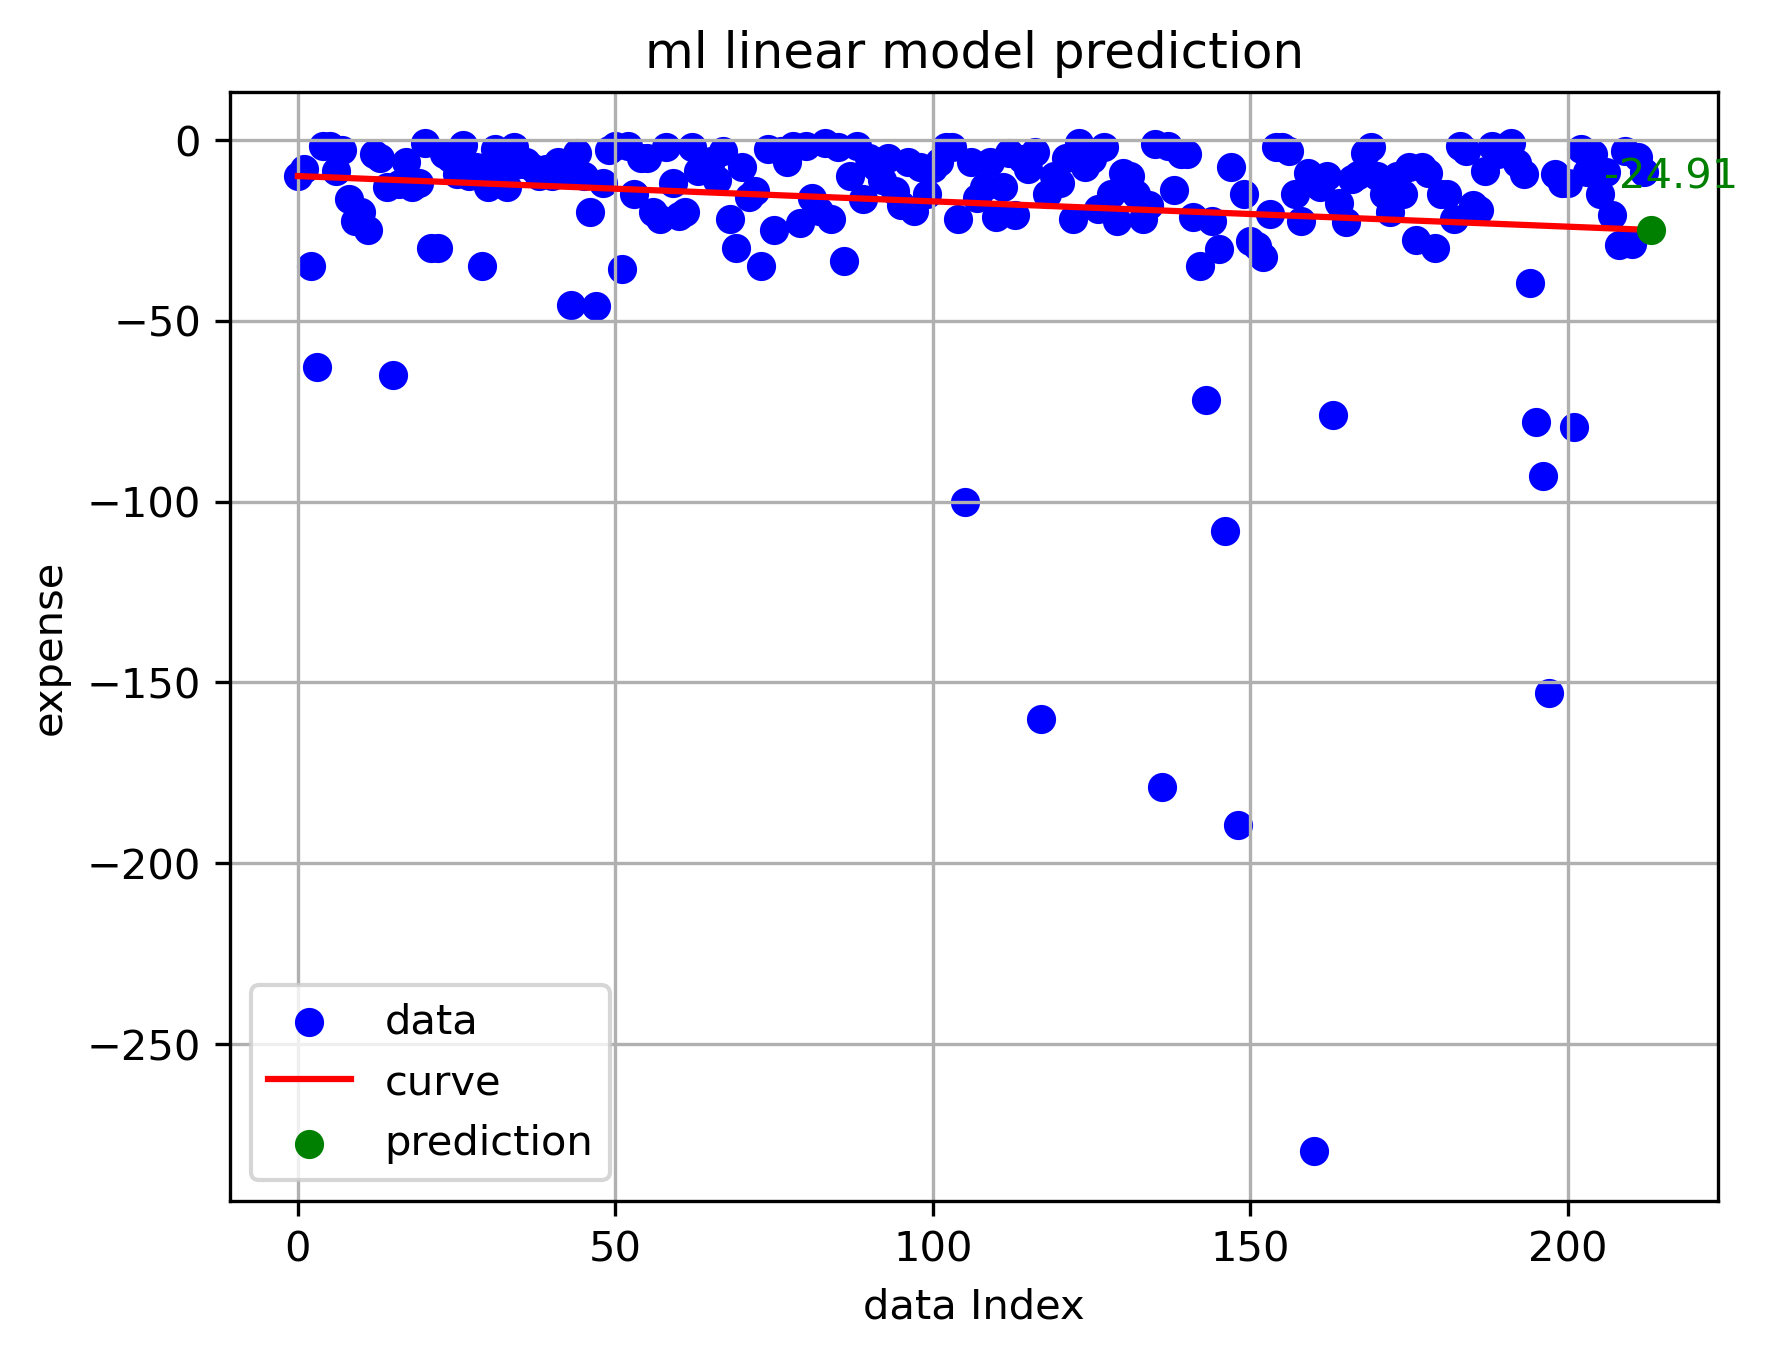
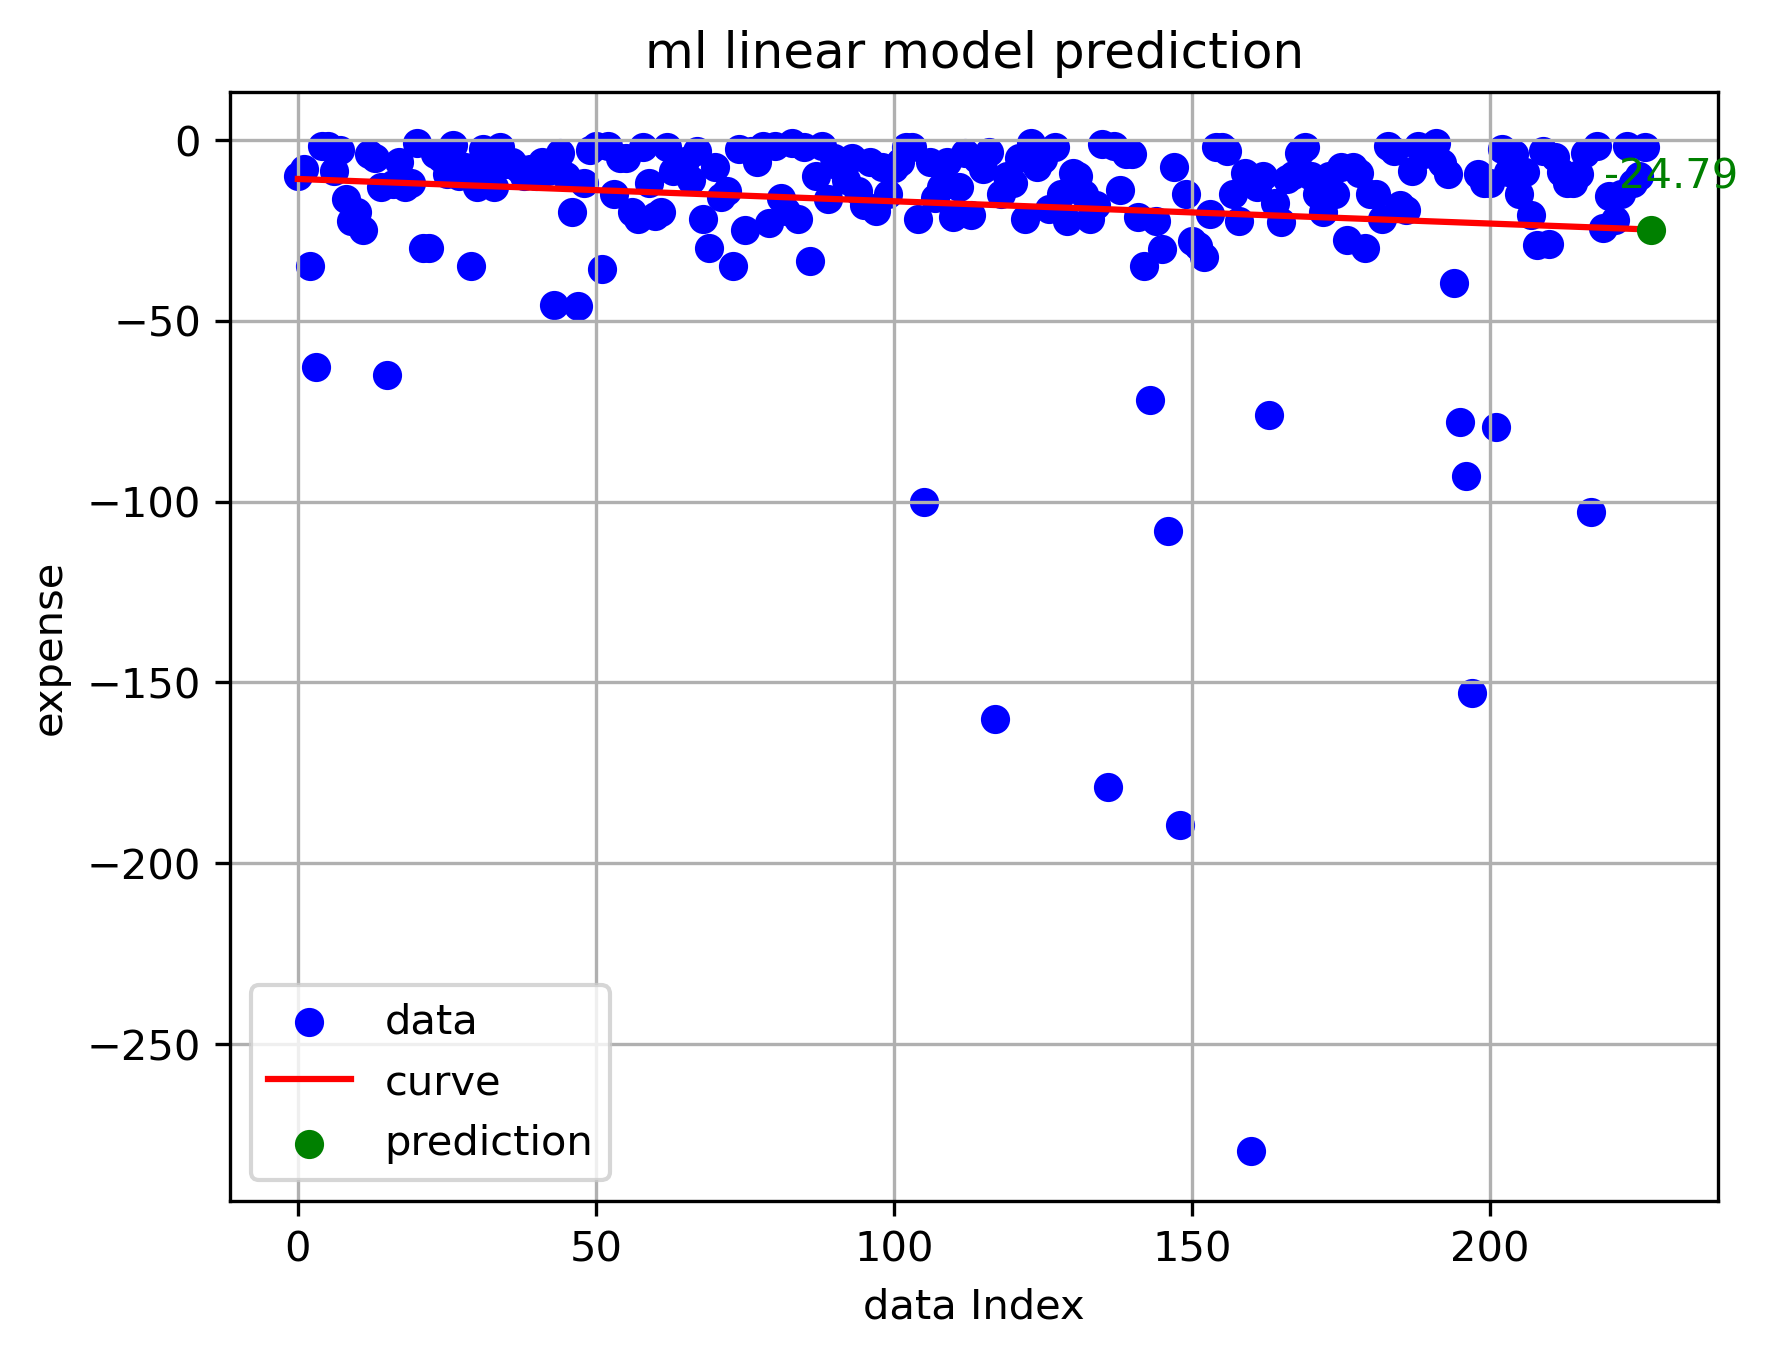
data update 12.17

diff --git a/Avg&Var/result.md b/Avg&Var/result.md
@@ -2,8 +2,8 @@
 
 ## 金额（可执行）数据分析
 
-- 平均值: -83.25
-- 方差: 7415.190390909092
+- 平均值: -83.325
+- 方差: 7231.843238297873
 
 ## 日期出现次数统计
 
@@ -23,7 +23,7 @@
 | 2024-11-14 |          2 |
 | 2024-11-15 |          1 |
 | 2024-11-16 |          2 |
-| 2024-11-17 |          3 |
+| 2024-11-17 |          4 |
 | 2024-11-19 |          2 |
 | 2024-11-20 |          1 |
 | 2024-11-21 |          1 |
@@ -49,3 +49,4 @@
 | 2024-12-12 |          4 |
 | 2024-12-13 |          1 |
 | 2024-12-14 |          4 |
+| 2024-12-16 |          4 |

diff --git a/ExpenseAnalysis/model_predictions.md b/ExpenseAnalysis/model_predictions.md
@@ -4,12 +4,12 @@
 ## 预测值列表
 | 序号 | 预测值 |
 | -------- | ----------------------- |
-| 1    | -15.74139              |
-| 2    | -24.90774              |
-| 3    | -7.61260              |
-| 4    | -9.04430              |
+| 1    | -10.47461              |
+| 2    | -24.79477              |
+| 3    | -5.77600              |
+| 4    | -10.33168              |
     
 ## 统计分析
-- **均值**: -14.33
-- **总体方差**: 46.74
-- **样本方差**: 62.31
+- **均值**: -12.84
+- **总体方差**: 51.18
+- **样本方差**: 68.23
